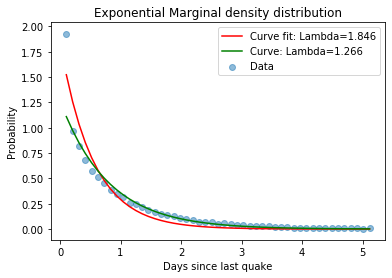
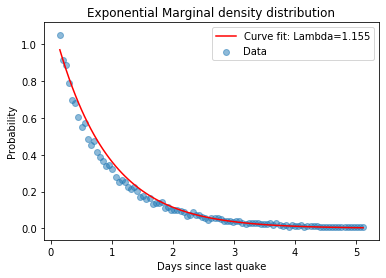
New plots, tokyo stats

diff --git a/README.md b/README.md
@@ -16,6 +16,8 @@ Earthquakes are random, but the frequency can be modeled using common statistica
 
 This data is fit to an exponential distribution using SciPy
 
+#### Global Fit
+
 ![Exponential MDF](/Present/ExpMDF.png)
 
 ![Exponential CDF](/Present/ExpCDF.png)
@@ -30,6 +32,16 @@ Earthquakes occur along fault lines where tectonic plates meet.
 
 ![Map of Locations](/Present/TectonicPlates.png)
 
-After calculating distance by converting spherical coordinates (Latitude and Longitude) to cartesian, the frequency of earthquakes in different cities can be compared.
+After calculating distance by converting spherical coordinates (Latitude and Longitude) to a 3D space, the dataset can be filtered to local areas.
 
 ![City Comparison](/Present/CompareCity.png)
+
+#### The probability of earthquakes in Tokyo
+
+The same distribution fitting can be performed on the filtered, local dataset.
+
+![Tokyo Exponential CDF](/Present/TokyoExpCDF.png)
+
+![Tokyo Poisson Distribution](/Present/TokyoPoisson.png)
+
+Thus, the probability of at least 1 earthquake in Tokyo in a given year is 86%
